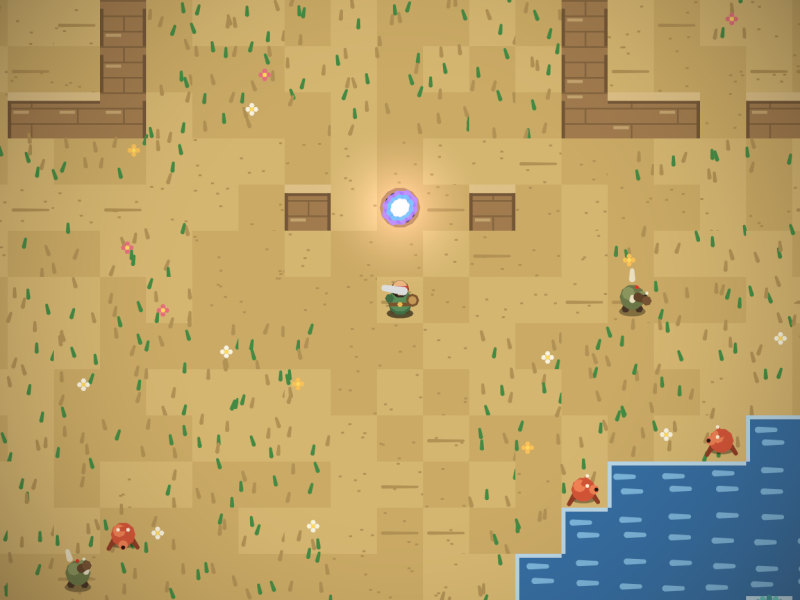
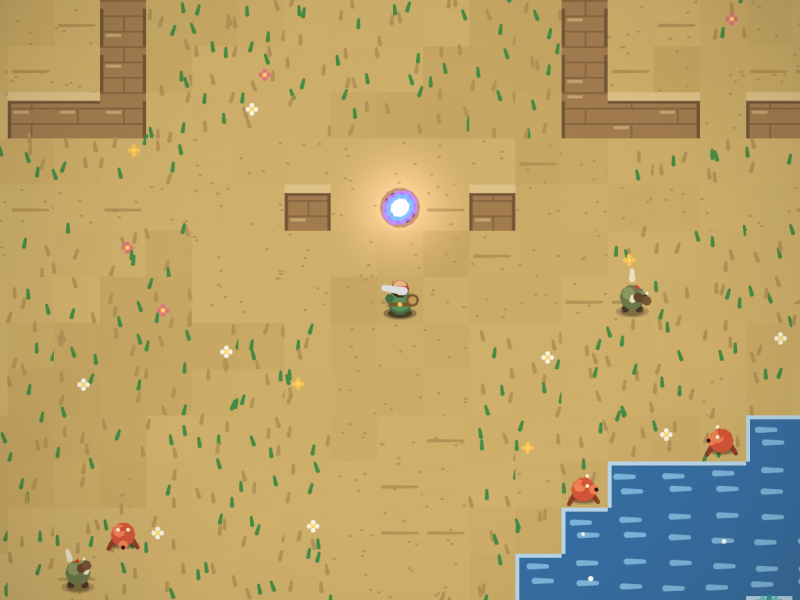
feat(aventure): combat qui répond + rendu lisse sans trame
Combat — les ennemis meurent et on le voit :
- garder Espace enfoncé enchaîne les coups (Input.attack_held ; l'edge
  seul se perdait dans le cooldown — d'où l'impression que rien ne meurt)
- portée de lame 15->18, arc 13->16, coup 0,22 s / récup 0,26 s
- les ennemis reculent sous les coups (Foe.knockback, décroissance exp,
  boss à 45 %) et perdent leur tempo 0,28 s ; Garde noir 3->2 PV
- secousse caméra à la mort d'un ennemi

Rendu — fini la pixelisation :
- trame de Bayer (dither 5.0) supprimée : plus de grille de points sur
  chaque pixel ; vignette 0,34 -> 0,16
- sols : mélange continu par bruit basse fréquence au lieu du damier
  binaire de tuiles ; ombres en deux ellipses imbriquées (flou simulé)
- captures README régénérées

Tests : 48 OK (nouveaux : un coup tue un Craboroc, l'attaque maintenue
abat un Sbire, le recul pousse l'ennemi)

diff --git a/src/adventure/mod.rs b/src/adventure/mod.rs
@@ -21,13 +21,15 @@ use world::{FoeKind, Pickup, Portal, ThemeName, Tile, World, LIGHT_REALM, TILE, 
 pub const PLAYER_SPEED: f32 = 92.0;
 pub const PLAYER_RADIUS: f32 = 7.0;
 /// Duration of a sword stroke, seconds.
-pub const ATTACK_TIME: f32 = 0.22;
+pub const ATTACK_TIME: f32 = 0.18;
 /// Recovery between strokes.
-pub const ATTACK_COOLDOWN: f32 = 0.34;
+pub const ATTACK_COOLDOWN: f32 = 0.26;
 /// How far in front of him the blade bites.
-pub const SWORD_REACH: f32 = 15.0;
+pub const SWORD_REACH: f32 = 18.0;
 /// Radius of the bite.
-pub const SWORD_ARC: f32 = 13.0;
+pub const SWORD_ARC: f32 = 16.0;
+/// Foes knocked back by a blow fly at this speed.
+pub const FOE_KNOCKBACK: f32 = 170.0;
 /// Invulnerability after taking a hit.
 pub const HURT_INVULN: f32 = 1.0;
 pub const KNOCKBACK: f32 = 130.0;
@@ -109,6 +111,8 @@ pub struct Foe {
     pub cd: f32,
     /// Hit-flash timer.
     pub hurt_t: f32,
+    /// Knockback velocity from the prince's blade, decays fast.
+    pub knock: V2,
     pub alive: bool,
     /// Animation phase.
     pub anim: f32,
@@ -281,6 +285,7 @@ impl Game {
                     t: self.rng.range(0.0, 1.0),
                     cd: self.rng.range(0.4, 1.6),
                     hurt_t: 0.0,
+                    knock: V2::ZERO,
                     alive: true,
                     anim: self.rng.unit() * 10.0,
                 })
@@ -476,7 +481,7 @@ impl Game {
             }
         }
 
-        let swung = input.attack && pl.cooldown <= 0.0;
+        let swung = (input.attack || input.attack_held) && pl.cooldown <= 0.0;
         if swung {
             pl.attack_t = ATTACK_TIME;
             pl.cooldown = ATTACK_COOLDOWN;
@@ -523,6 +528,11 @@ impl Game {
             foe.hp -= dmg;
             foe.hurt_t = 0.18;
             foe.dir = f.mul(-1.0); // stagger backwards
+            // The blow sends the foe flying away from the prince; bosses
+            // barely budge.
+            let kb = if foe.kind.is_boss() { 0.45 } else { 1.0 };
+            foe.knock = f.mul(FOE_KNOCKBACK * kb);
+            foe.t = foe.t.max(0.28); // brief stun: the AI loses its beat
             let heavy = dmg > 1;
             self.fx.sparks(
                 foe.p.add(v2(0.0, -4.0)),
@@ -542,6 +552,7 @@ impl Game {
         };
         self.foes[ix].alive = false;
         self.kills += 1;
+        self.cam_shake = self.cam_shake.max(0.35);
         self.fx.sparks(fp, 16, 1.4);
         self.fx
             .dust(fp, 8, 1.0, crate::gfx::color::rgb(160, 150, 140));
@@ -665,6 +676,7 @@ impl Game {
             }
             foe.anim += dt * (if foe.kind == FoeKind::Bat { 14.0 } else { 6.0 });
             foe.hurt_t = (foe.hurt_t - dt).max(0.0);
+            foe.knock = foe.knock.mul((-dt * 9.0).exp());
             foe.cd -= dt;
             foe.t -= dt;
             let to_pl = pl_p.sub(foe.p);
@@ -875,6 +887,8 @@ impl Game {
                 }
             }
 
+            // Knockback from the prince's blade dominates while it lasts.
+            let vel = if foe.knock.len() > 4.0 { foe.knock } else { vel };
             if vel.len() > 0.5 {
                 let nx = foe.p.x + vel.x * dt;
                 if free(v2(nx, foe.p.y), 6.0) {
@@ -919,6 +933,7 @@ impl Game {
                     t: 1.0,
                     cd: 1.0,
                     hurt_t: 0.0,
+                    knock: V2::ZERO,
                     alive: true,
                     anim: 0.0,
                 });

diff --git a/src/adventure/render.rs b/src/adventure/render.rs
@@ -381,17 +381,20 @@ fn wline(t: &mut impl Target, cam: &Cam, a: V2, b: V2, wdt: f32, col: Rgb) {
     crate::art::shape::contour(t, cam.p(a), cam.p(b), cam.l(wdt), col, 1.0);
 }
 
-/// Soft round shadow under an entity.
+/// Soft round shadow under an entity — two nested ellipses fake a blur.
 fn shadow(t: &mut impl Target, cam: &Cam, at: V2, rx: f32, ry: f32, alpha: f32) {
     let c = cam.p(at);
-    let (rx, ry) = (cam.l(rx), cam.l(ry));
     let n = 14;
     let mut pts = Vec::with_capacity(n);
     for i in 0..n {
         let a = i as f32 / n as f32 * std::f32::consts::TAU;
-        pts.push(v2(c.x + a.cos() * rx, c.y + a.sin() * ry));
+        pts.push(v2(a.cos(), a.sin()));
     }
-    crate::art::shape::flat(t, &pts, Rgb::BLACK, alpha * 0.35);
+    for (scale, k) in [(1.25f32, 0.45f32), (0.92, 0.75)] {
+        let (rx, ry) = (cam.l(rx * scale), cam.l(ry * scale));
+        let ring: Vec<V2> = pts.iter().map(|d| v2(c.x + d.x * rx, c.y + d.y * ry)).collect();
+        crate::art::shape::flat(t, &ring, Rgb::BLACK, alpha * 0.35 * k);
+    }
 }
 
 // ---------------------------------------------------------------- terrain
@@ -407,7 +410,12 @@ fn draw_tile(g: &Game, t: &mut Canvas, cam: &Cam, tx: i32, ty: i32, time: f32) {
 
     match tile {
         Tile::Grass | Tile::Flower => {
-            let base = if hf(1) < 0.5 { p.ground_a } else { p.ground_b };
+            // Slow, organic drift of tone across the meadow — no checkerboard.
+            let drift = (noise1(x * 0.021 + y * 0.029, 11) * 0.5 + 0.5).clamp(0.0, 1.0);
+            let base = p
+                .ground_a
+                .lerp(p.ground_b, drift)
+                .lerp(p.ground_speck, (drift - 0.5).abs() * 0.5);
             wrect(t, cam, x, y, TILE + 0.5, TILE + 0.5, base);
             // Tufts of grass.
             let tufts = 3 + (h % 3) as usize;
@@ -432,7 +440,11 @@ fn draw_tile(g: &Game, t: &mut Canvas, cam: &Cam, tx: i32, ty: i32, time: f32) {
             }
         }
         Tile::Floor | Tile::Portal | Tile::Cave | Tile::MirrorSlab => {
-            let base = if hf(1) < 0.5 { p.ground_a } else { p.ground_b };
+            let drift = (noise1(x * 0.025 + y * 0.033, 13) * 0.5 + 0.5).clamp(0.0, 1.0);
+            let base = p
+                .ground_a
+                .lerp(p.ground_b, drift)
+                .lerp(p.ground_speck, (drift - 0.5).abs() * 0.4);
             wrect(t, cam, x, y, TILE + 0.5, TILE + 0.5, base);
             // Speckles + faint slab seams.
             for k in 0..4 {
@@ -1648,14 +1660,14 @@ pub fn draw(g: &Game, cv: &mut Canvas, layer: &mut Layer, light: &mut LightField
     }
     light.apply(cv);
 
-    // Post: gentle vignette + ordered dither for the retro finish.
+    // Post: a whisper of vignette — no dithering, the look stays smooth and
+    // fine-grained rather than retro-pixelated.
     let vig_tint = match g.theme() {
         ThemeName::Valley => rgb(40, 30, 20),
         ThemeName::Palace => rgb(40, 30, 24),
         _ => rgb(14, 8, 22),
     };
-    cv.vignette(0.34, vig_tint);
-    crate::gfx::canvas::dither(cv, 5.0);
+    cv.vignette(0.16, vig_tint);
 
     // Emissive overlay (flames etc.) drawn additively on top.
     cv.blend = Blend::Add;

diff --git a/tests/adventure_input.rs b/tests/adventure_input.rs
@@ -150,3 +150,83 @@ fn walking_into_a_portal_changes_world() {
     }
     panic!("le prince n'est jamais entré dans le portail, monde courant : {}", g.cur);
 }
+
+// ------------------------------------------------------------------ combat
+
+use prince_of_persia_rs::adventure::Foe;
+use prince_of_persia_rs::adventure::world::FoeKind;
+use prince_of_persia_rs::util::v2;
+
+fn lone_foe(g: &mut Game, kind: FoeKind, offset: (f32, f32)) {
+    let fp = g.player.p.add(v2(offset.0, offset.1));
+    g.foes.clear();
+    g.foes.push(Foe {
+        kind,
+        home: fp,
+        p: fp,
+        hp: kind.max_hp(),
+        dir: v2(-1.0, 0.0),
+        t: 1.0,
+        cd: 9.0,
+        hurt_t: 0.0,
+        knock: V2_ZERO,
+        alive: true,
+        anim: 0.0,
+    });
+}
+
+use prince_of_persia_rs::util::V2;
+const V2_ZERO: prince_of_persia_rs::util::V2 = prince_of_persia_rs::util::V2 { x: 0.0, y: 0.0 };
+
+fn face_and_swing(g: &mut Game, steps: u32) {
+    // Regarde à droite et maintient l'attaque : l'auto-répétition frappe
+    // dès que le cooldown le permet.
+    let mut inp = prince_of_persia_rs::input::Input::default();
+    inp.right = true;
+    inp.attack_held = true;
+    for _ in 0..steps {
+        g.update(1.0 / 120.0, &inp);
+    }
+}
+
+#[test]
+fn one_blow_fells_a_crab() {
+    let mut g = Game::new(9).expect("mondes valides");
+    lone_foe(&mut g, FoeKind::Crab, (14.0, 0.0));
+    face_and_swing(&mut g, 30); // un coup (0,25 s)
+    assert!(!g.foes[0].alive, "un Craboroc tombe d'un coup");
+}
+
+#[test]
+fn holding_attack_repeats_and_fells_a_grunt() {
+    let mut g = Game::new(9).expect("mondes valides");
+    lone_foe(&mut g, FoeKind::Grunt, (14.0, 0.0));
+    face_and_swing(&mut g, 90); // ~3 coups en 0,75 s
+    assert!(
+        !g.foes[0].alive,
+        "garder Espace enfoncé doit enchaîner les coups (hp restant : {})",
+        g.foes[0].hp
+    );
+}
+
+#[test]
+fn a_blow_knocks_the_foe_back() {
+    let mut g = Game::new(9).expect("mondes valides");
+    lone_foe(&mut g, FoeKind::Grunt, (14.0, 0.0));
+    let before = g.foes[0].p;
+    // Un seul coup, sans laisser l'ennemi se rétablir.
+    let mut inp = prince_of_persia_rs::input::Input::default();
+    inp.right = true;
+    inp.attack = true;
+    g.update(1.0 / 120.0, &inp);
+    for _ in 0..12 {
+        g.update(1.0 / 120.0, &inp2_idle());
+    }
+    let pushed = g.foes[0].p.x - before.x;
+    assert!(pushed > 6.0, "l'ennemi doit reculer sous le coup (+{pushed}px)");
+    assert!(g.foes[0].hp < FoeKind::Grunt.max_hp(), "l'ennemi doit être blessé");
+}
+
+fn inp2_idle() -> prince_of_persia_rs::input::Input {
+    prince_of_persia_rs::input::Input::default()
+}

diff --git a/src/input.rs b/src/input.rs
@@ -63,6 +63,8 @@ pub struct Input {
     pub down_edge: bool,
     pub left_edge: bool,
     pub right_edge: bool,
+    /// Attack held down (auto-repeat swings in the adventure).
+    pub attack_held: bool,
 }
 
 impl Input {
@@ -224,6 +226,7 @@ impl Reader {
             down_edge: e(Act::Down),
             left_edge: e(Act::Left),
             right_edge: e(Act::Right),
+            attack_held: h(Act::Attack),
         };
         self.edge = [false; NACT];
         inp

diff --git a/tests/sim.rs b/tests/sim.rs
@@ -335,6 +335,7 @@ fn the_campaign_survives_random_input() {
                 down_edge: rng.chance(0.08),
                 left_edge: rng.chance(0.08),
                 right_edge: rng.chance(0.10),
+                attack_held: rng.chance(0.05),
             };
             g.update(DT, &inp);
             if matches!(g.phase, Phase::Dead) {

diff --git a/src/adventure/world.rs b/src/adventure/world.rs
@@ -222,7 +222,7 @@ impl FoeKind {
             FoeKind::Bat => 1,
             FoeKind::Grunt => 2,
             FoeKind::Djinn => 2,
-            FoeKind::Knight => 3,
+            FoeKind::Knight => 2,
             FoeKind::Ogre => 8,
             FoeKind::BossKnight => 12,
             FoeKind::CrystalGolem => 14,

diff --git a/README.md b/README.md
@@ -42,10 +42,11 @@ le test d'intégration.
 cargo run --release --bin pop2d
 ```
 
-Un Zelda-like en vue du dessus, rendu en pixel-art 16 bits par le même pipeline
+Un Zelda-like en vue du dessus, rendu en vectoriel lisse par le même pipeline
 que le jeu de plateforme : palettes fortes par monde, tuiles à face éclairée,
-eau animée et scintillante, ombres portées, éclairage en une passe (braseros,
-portails, fée), personnages directionnels animés et vignettage tramé.
+eau animée et scintillante, ombres portées douces, éclairage en une passe
+(braseros, portails, fée), personnages directionnels animés, sols aux tons
+organiques — sans trame ni pixelisation volontaire.
 
 Le rendu est vectoriel et sur-échantillonné : il se joue net à la taille du
 terminal et les captures sortent en **800 × 600 natif (SVGA)** — la vue par
